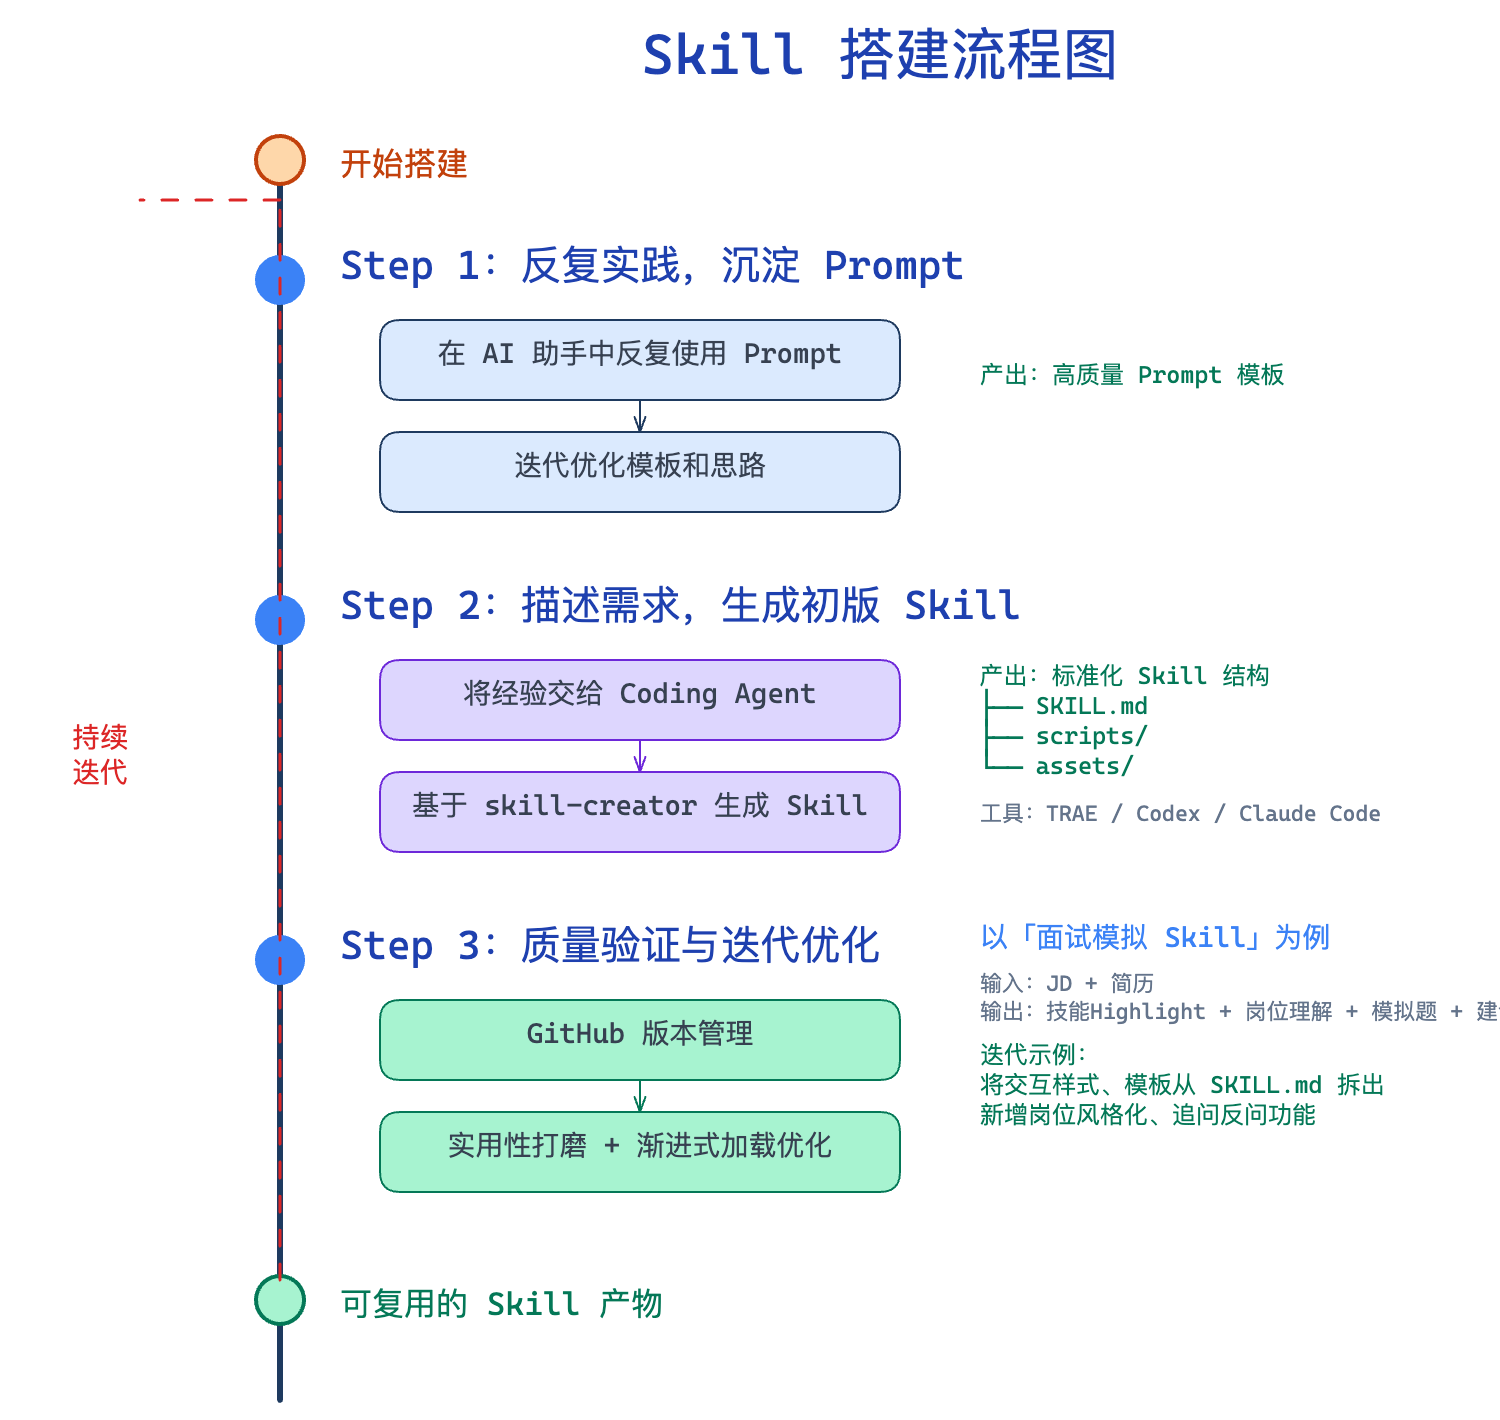
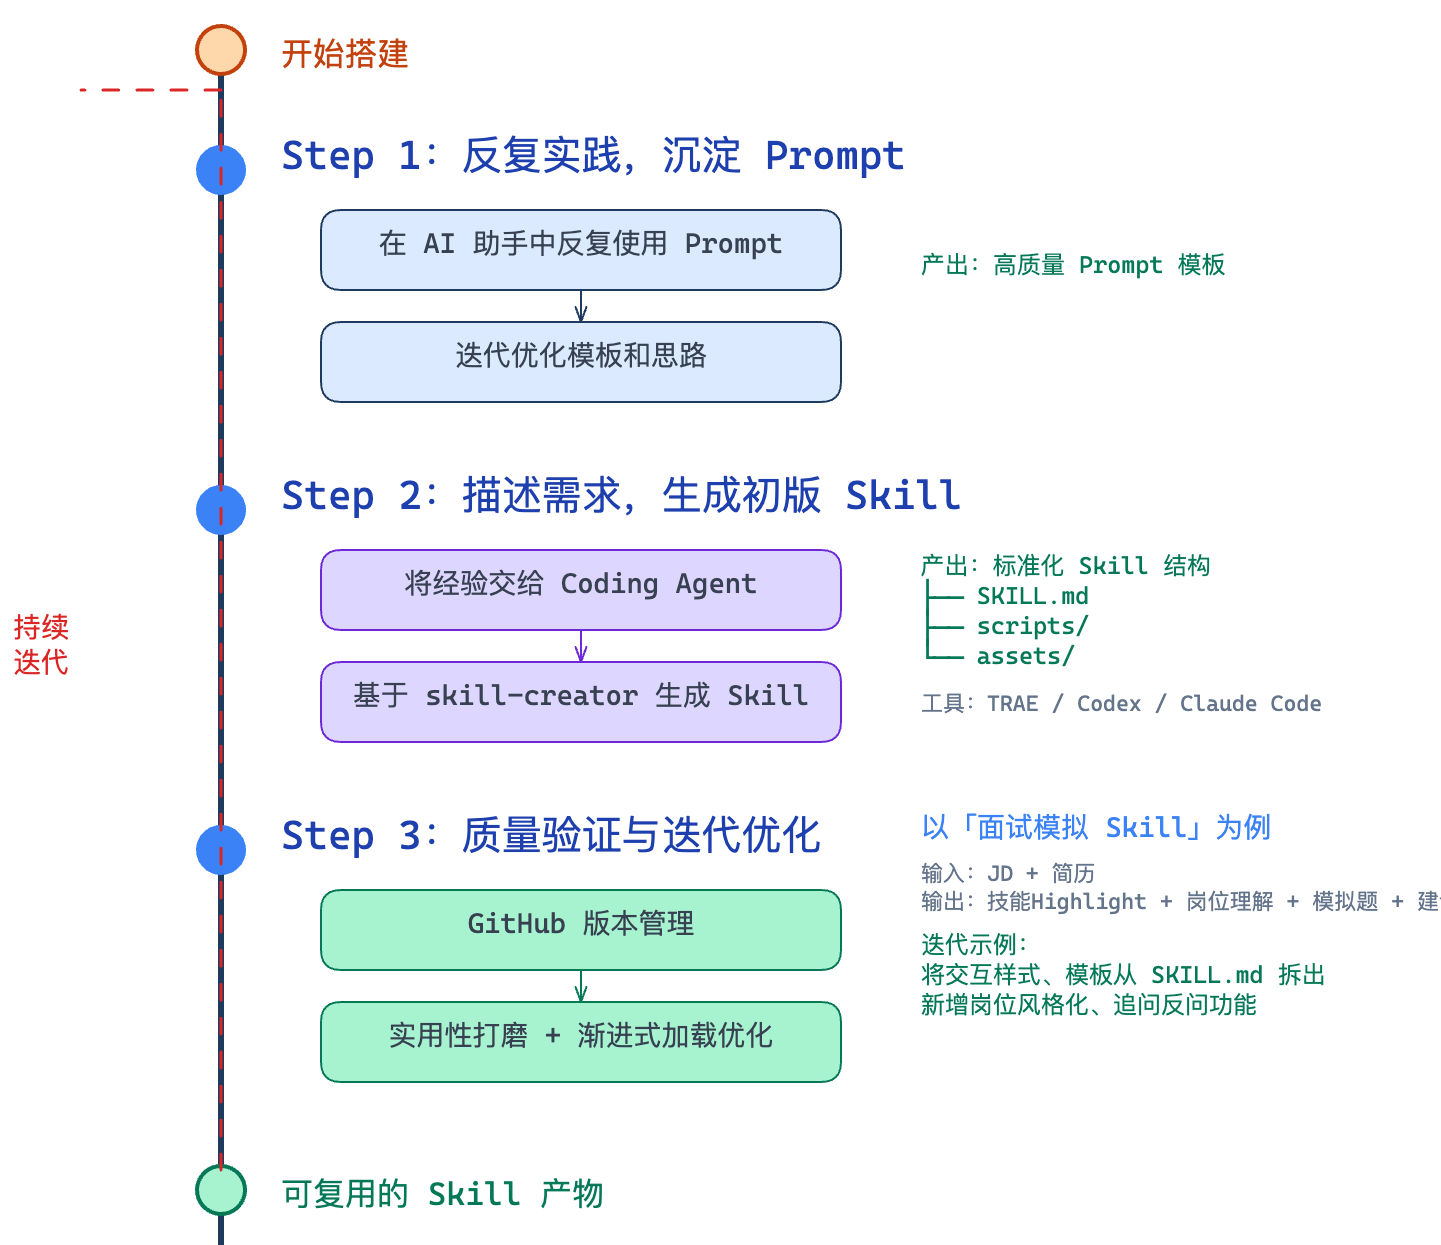
Optimize image loading and galaxy colors

diff --git a/index.html b/index.html
@@ -50,7 +50,17 @@
           <div class="hero-visual" data-reveal>
             <div class="avatar-card">
               <div class="avatar" aria-label="蔡情情头像">
-                <img src="assets/avatars/hero-avatar.jpg" alt="蔡情情头像" />
+                <picture>
+                  <source srcset="assets/avatars/hero-avatar.webp" type="image/webp" />
+                  <img
+                    src="assets/avatars/hero-avatar.jpg"
+                    alt="蔡情情头像"
+                    width="900"
+                    height="1200"
+                    decoding="async"
+                    fetchpriority="high"
+                  />
+                </picture>
               </div>
               <div class="signal-panel" aria-label="能力概览">
                 <p class="signal-title">PRODUCT SIGNALS</p>
@@ -268,12 +278,18 @@
           <div class="projects-grid">
             <article class="project-card" data-reveal>
               <div class="project-art agent">
-                <img
-                  class="project-image"
-                  src="assets/projects/ChatGPT%20Image%202026年5月20日%2000_38_02.png"
-                  alt="智能招生问答助手项目截图"
-                  loading="lazy"
-                />
+                <picture>
+                  <source srcset="assets/projects/ChatGPT%20Image%202026年5月20日%2000_38_02.webp" type="image/webp" />
+                  <img
+                    class="project-image"
+                    src="assets/projects/ChatGPT%20Image%202026年5月20日%2000_38_02.png"
+                    alt="智能招生问答助手项目截图"
+                    width="1211"
+                    height="545"
+                    loading="lazy"
+                    decoding="async"
+                  />
+                </picture>
               </div>
               <div class="project-body">
                 <div class="project-meta"><span>产品负责人</span><span>主导商业化</span></div>
@@ -290,12 +306,18 @@
 
             <article class="project-card" data-reveal>
               <div class="project-art interview">
-                <img
-                  class="project-image"
-                  src="assets/projects/ChatGPT%20Image%202026年5月19日%2023_52_19.png"
-                  alt="AI Interview Coach 项目截图"
-                  loading="lazy"
-                />
+                <picture>
+                  <source srcset="assets/projects/ChatGPT%20Image%202026年5月19日%2023_52_19.webp" type="image/webp" />
+                  <img
+                    class="project-image"
+                    src="assets/projects/ChatGPT%20Image%202026年5月19日%2023_52_19.png"
+                    alt="AI Interview Coach 项目截图"
+                    width="1149"
+                    height="575"
+                    loading="lazy"
+                    decoding="async"
+                  />
+                </picture>
               </div>
               <div class="project-body">
                 <div class="project-meta"><span>面试模拟 Skill:</span><span>求职提效</span></div>
@@ -312,12 +334,18 @@
 
             <article class="project-card" data-reveal>
               <div class="project-art copilot">
-                <img
-                  class="project-image"
-                  src="assets/projects/ChatGPT%20Image%202026年5月20日%2000_15_46.png"
-                  alt="竞品分析 AI Copilot 项目截图"
-                  loading="lazy"
-                />
+                <picture>
+                  <source srcset="assets/projects/ChatGPT%20Image%202026年5月20日%2000_15_46.webp" type="image/webp" />
+                  <img
+                    class="project-image"
+                    src="assets/projects/ChatGPT%20Image%202026年5月20日%2000_15_46.png"
+                    alt="竞品分析 AI Copilot 项目截图"
+                    width="874"
+                    height="565"
+                    loading="lazy"
+                    decoding="async"
+                  />
+                </picture>
               </div>
               <div class="project-body">
                 <div class="project-meta"><span>B端竞品分析 Skill</span><span>工作流沉淀</span></div>
@@ -334,12 +362,18 @@
 
             <article class="project-card" data-reveal>
               <div class="project-art time">
-                <img
-                  class="project-image"
-                  src="assets/projects/ChatGPT%20Image%202026年5月20日%2000_43_19.png"
-                  alt="Time Reflection 项目截图"
-                  loading="lazy"
-                />
+                <picture>
+                  <source srcset="assets/projects/ChatGPT%20Image%202026年5月20日%2000_43_19.webp" type="image/webp" />
+                  <img
+                    class="project-image"
+                    src="assets/projects/ChatGPT%20Image%202026年5月20日%2000_43_19.png"
+                    alt="Time Reflection 项目截图"
+                    width="886"
+                    height="589"
+                    loading="lazy"
+                    decoding="async"
+                  />
+                </picture>
               </div>
               <div class="project-body">
                 <div class="project-meta"><span>时间复盘应用</span><span>效率小工具</span></div>
@@ -403,22 +437,34 @@
                     <article class="flow-page-content is-active" data-page="0">
                       <p class="reader-index">Flow</p>
                       <h3 class="flow-title"><span class="flow-title-icon" aria-hidden="true"></span>Skills 搭建流程</h3>
-                      <img class="flow-image" src="assets/cookbook/cookbook_1.png" alt="skill 搭建流程图">
+                      <picture>
+                        <source srcset="assets/cookbook/cookbook_1.webp" type="image/webp" />
+                        <img class="flow-image" src="assets/cookbook/cookbook_1.png" alt="skill 搭建流程图" width="1441" height="1245" loading="lazy" decoding="async">
+                      </picture>
                     </article>
                     <article class="flow-page-content" data-page="1">
                       <p class="reader-index">Flow</p>
                       <h3 class="flow-title"><span class="flow-title-icon" aria-hidden="true"></span>OpenClaw 框架图</h3>
-                      <img class="flow-image" src="assets/cookbook/cookbook_2.png" alt="open claw 框架图">
+                      <picture>
+                        <source srcset="assets/cookbook/cookbook_2.webp" type="image/webp" />
+                        <img class="flow-image" src="assets/cookbook/cookbook_2.png" alt="open claw 框架图" width="1694" height="654" loading="lazy" decoding="async">
+                      </picture>
                     </article>
                     <article class="flow-page-content" data-page="2">
                       <p class="reader-index">Flow</p>
                       <h3 class="flow-title"><span class="flow-title-icon" aria-hidden="true"></span>如何入场转型AI/OPC</h3>
-                      <img class="flow-image" src="assets/cookbook/cookbook_3.png" alt="个人转型 AI/OPC 的入场流程图">
+                      <picture>
+                        <source srcset="assets/cookbook/cookbook_3.webp" type="image/webp" />
+                        <img class="flow-image" src="assets/cookbook/cookbook_3.png" alt="个人转型 AI/OPC 的入场流程图" width="757" height="606" loading="lazy" decoding="async">
+                      </picture>
                     </article>
                     <article class="flow-page-content" data-page="3">
                       <p class="reader-index">Flow</p>
                       <h3 class="flow-title"><span class="flow-title-icon" aria-hidden="true"></span>AI 一手消息每日推送</h3>
-                      <img class="flow-image" src="assets/cookbook/cookbook_4.png" alt="每日 AI 一手消息推送流程图">
+                      <picture>
+                        <source srcset="assets/cookbook/cookbook_4.webp" type="image/webp" />
+                        <img class="flow-image" src="assets/cookbook/cookbook_4.png" alt="每日 AI 一手消息推送流程图" width="958" height="654" loading="lazy" decoding="async">
+                      </picture>
                     </article>
                   </div>
                 </div>

diff --git a/styles.css b/styles.css
@@ -393,6 +393,13 @@ h1 {
     var(--blue);
 }
 
+.avatar picture,
+.project-art picture {
+  display: block;
+  width: 100%;
+  height: 100%;
+}
+
 .avatar img {
   display: block;
   width: 100%;
@@ -688,6 +695,53 @@ h2 {
     linear-gradient(135deg, rgba(0, 47, 167, 0.08), rgba(10, 88, 255, 0.02)),
     url("assets/experience/experience_uestc.jpg");
   background-position: 43% 35%;
+}
+
+@supports (background-image: image-set(url("assets/experience/experience_aipm.webp") type("image/webp"))) {
+  .experience-art-aipm {
+    background-image:
+      linear-gradient(135deg, rgba(0, 47, 167, 0.08), rgba(10, 88, 255, 0.02)),
+      image-set(
+        url("assets/experience/experience_aipm.webp") type("image/webp"),
+        url("assets/experience/experience_aipm.JPG") type("image/jpeg")
+      );
+  }
+
+  .experience-art-zego {
+    background-image:
+      linear-gradient(135deg, rgba(0, 47, 167, 0.06), rgba(10, 88, 255, 0.01)),
+      image-set(
+        url("assets/experience/experience_zego.webp") type("image/webp"),
+        url("assets/experience/experience_zego.png") type("image/png")
+      );
+  }
+
+  .experience-art-kuaishou {
+    background-image:
+      linear-gradient(135deg, rgba(0, 47, 167, 0.04), rgba(10, 88, 255, 0.01)),
+      image-set(
+        url("assets/experience/experience_kuaishou.webp") type("image/webp"),
+        url("assets/experience/experience_kuaishou.png") type("image/png")
+      );
+  }
+
+  .experience-art-zju {
+    background-image:
+      linear-gradient(135deg, rgba(0, 47, 167, 0.08), rgba(10, 88, 255, 0.02)),
+      image-set(
+        url("assets/experience/experience_zju.webp") type("image/webp"),
+        url("assets/experience/experience_zju.jpg") type("image/jpeg")
+      );
+  }
+
+  .experience-art-uestc {
+    background-image:
+      linear-gradient(135deg, rgba(0, 47, 167, 0.08), rgba(10, 88, 255, 0.02)),
+      image-set(
+        url("assets/experience/experience_uestc.webp") type("image/webp"),
+        url("assets/experience/experience_uestc.jpg") type("image/jpeg")
+      );
+  }
 }
 
 .experience-copy {
@@ -1081,7 +1135,8 @@ h3 {
 .book-spread {
   display: grid;
   grid-template-columns: minmax(0, 1fr) minmax(0, 1fr);
-  min-height: 520px;
+  height: 520px;
+  min-height: 0;
   overflow: hidden;
   border-radius: 14px;
   background: var(--white);
@@ -1090,6 +1145,8 @@ h3 {
 
 .book-page {
   position: relative;
+  min-height: 0;
+  overflow: hidden;
   padding: clamp(26px, 4vw, 48px);
   background:
     linear-gradient(90deg, rgba(0, 47, 167, 0.035) 1px, transparent 1px),
@@ -1146,17 +1203,27 @@ h3 {
 .flow-page {
   display: flex;
   min-width: 0;
+  min-height: 0;
 }
 
 .flow-page-content {
   display: none;
   width: 100%;
   min-width: 0;
+  min-height: 0;
 }
 
 .flow-page-content.is-active {
   display: flex;
   flex-direction: column;
+  height: 100%;
+}
+
+.flow-page-content picture {
+  display: flex;
+  width: 100%;
+  min-height: 0;
+  flex: 1;
 }
 
 .flow-title {
@@ -1203,7 +1270,8 @@ h3 {
 .flow-image {
   display: block;
   width: 100%;
-  max-height: clamp(320px, 48vw, 640px);
+  height: 100%;
+  min-height: 0;
   flex: 1;
   object-fit: contain;
   object-position: center top;
@@ -1470,7 +1538,10 @@ h3 {
   }
 
   .book-spread {
+    height: clamp(620px, 112vw, 760px);
+    min-height: 0;
     grid-template-columns: 1fr;
+    grid-template-rows: minmax(220px, 0.38fr) minmax(0, 0.62fr);
   }
 
   .book-page:first-child {
@@ -1609,6 +1680,10 @@ h3 {
   }
 
   .flow-image {
+    height: 100%;
+  }
+
+  .flow-page-content picture {
     max-height: 68vh;
   }
 

diff --git a/main.js b/main.js
@@ -205,7 +205,7 @@ if (galaxyContainer && !prefersReducedMotion) {
 
       float starLight = max(max(col.r, col.g), col.b);
       vec3 brandBlue = vec3(0.0, 0.184, 0.655);
-      vec3 haloBlue = vec3(0.22, 0.52, 1.0);
+      vec3 haloBlue = vec3(0.0, 0.184, 0.655);
       vec3 highlightBlue = vec3(0.82, 0.92, 1.0);
       float halo = smoothstep(0.01, 0.16, starLight);
       float core = smoothstep(0.10, 0.38, starLight);